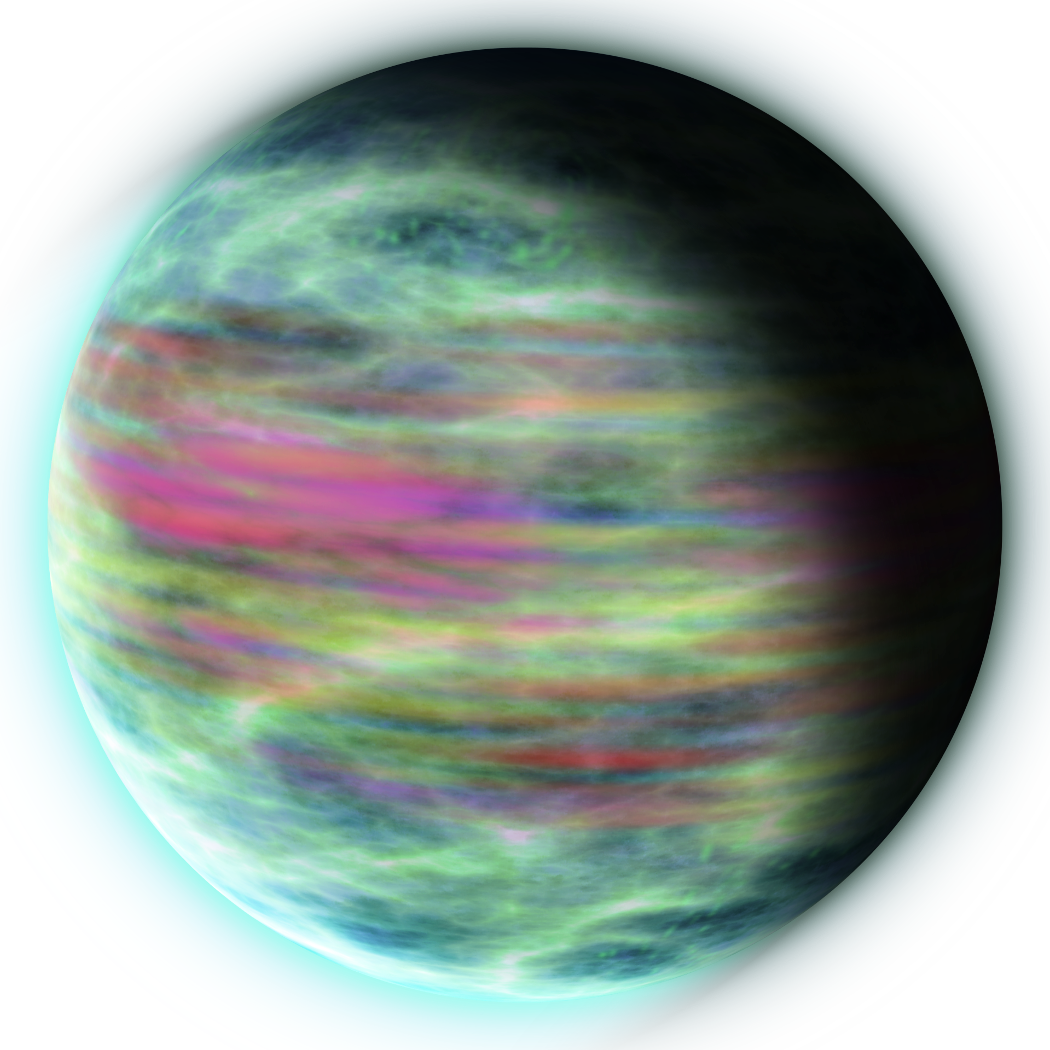
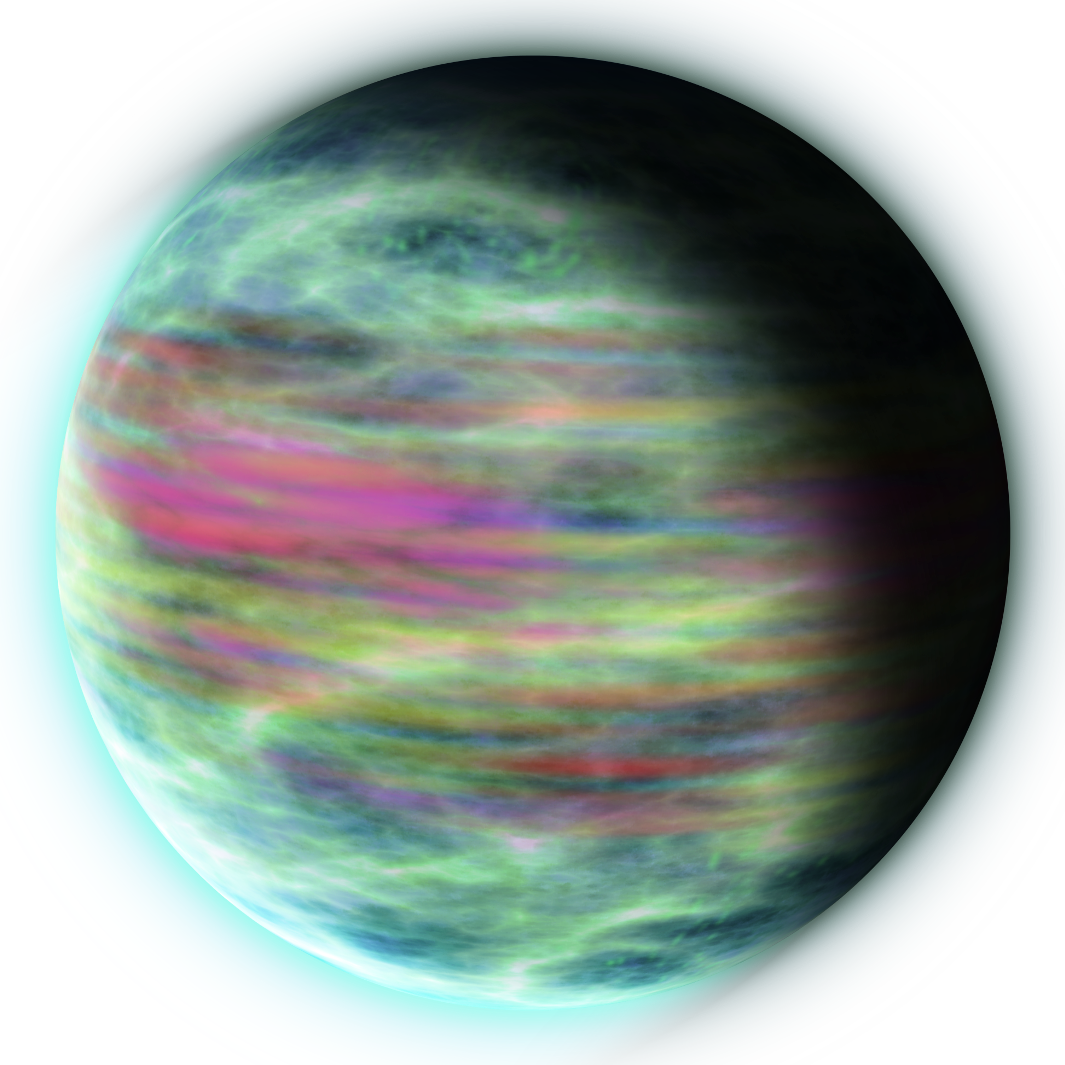
mute button
-fixed image croping on larger planets
-added a mute button
-replaced restart icon

diff --git a/core/src/com/eg/planetjumper/PlanetJumper.java b/core/src/com/eg/planetjumper/PlanetJumper.java
@@ -4,6 +4,7 @@ import java.util.ArrayList;
 
 import com.badlogic.gdx.ApplicationAdapter;
 import com.badlogic.gdx.Gdx;
+import com.badlogic.gdx.Preferences;
 import com.badlogic.gdx.graphics.GL20;
 import com.badlogic.gdx.graphics.OrthographicCamera;
 import com.badlogic.gdx.graphics.Texture;
@@ -21,8 +22,10 @@ import com.badlogic.gdx.physics.box2d.World;
 import com.badlogic.gdx.scenes.scene2d.InputEvent;
 import com.badlogic.gdx.scenes.scene2d.Stage;
 import com.badlogic.gdx.scenes.scene2d.ui.Button;
+import com.badlogic.gdx.scenes.scene2d.ui.ImageButton;
 import com.badlogic.gdx.scenes.scene2d.utils.ClickListener;
 import com.badlogic.gdx.scenes.scene2d.utils.SpriteDrawable;
+
 import box2dLight.RayHandler;
 
 public class PlanetJumper extends ApplicationAdapter {
@@ -30,12 +33,13 @@ public class PlanetJumper extends ApplicationAdapter {
 	public static Joint playerJoint = null;
 	
 	private static World world;
+	private static Preferences prefs;
 	
 	private float cameraZoomMod;
 	private OrthographicCamera camera;
 	private SpriteBatch batch;
 	private LevelLoader level;
-	private Texture resetImage, rocketImage;
+	private Texture resetImage, rocketImage, muteImage, soundImage;
 	private Stage ui;
 	private ArrayList<ImageBody> b;
 	private Player player;
@@ -53,21 +57,30 @@ public class PlanetJumper extends ApplicationAdapter {
 		world.setContactListener(new PlanetContactListener());
 		camera = new OrthographicCamera();
 		camera.setToOrtho(false);
-		cameraZoomMod = 2500f / Gdx.graphics.getWidth();
+		cameraZoomMod = 3000f / Gdx.graphics.getWidth();
 		ui = new Stage();
 		planetImages = new Texture[15];
 		for (int i = 0; i < 15; i++)
-			planetImages[i] = new Texture("planets/planet_" + (i + 34) + ".png");
-		rocketImage = new Texture("player.png");
-		resetImage = new Texture("reset.png");
+			planetImages[i] = new Texture(Gdx.files.internal("planets/planet_" + (i + 34) + ".png"));
+		rocketImage = new Texture(Gdx.files.internal("player.png"));
+		resetImage = new Texture(Gdx.files.internal("reset.png"));
+		muteImage = new Texture(Gdx.files.internal("mute.png"));
+		soundImage = new Texture(Gdx.files.internal("sound.png"));
 		b = new ArrayList<ImageBody>();
 		rayHandler = new RayHandler(lightWorld);
 		level = new LevelLoader(this, planetImages, rayHandler);
+		prefs = Gdx.app.getPreferences("com.eg.planetjumper");
 		
 		//set up the UI
 		Sprite resetButton = new Sprite(resetImage);
+		final Sprite muteButton = new Sprite(muteImage);
+		final Sprite soundButton = new Sprite(soundImage);
 		resetButton.getTexture().setFilter(TextureFilter.Linear, TextureFilter.Linear);
 		resetButton.setSize(Gdx.graphics.getWidth()/15, Gdx.graphics.getWidth()/15);
+		muteButton.getTexture().setFilter(TextureFilter.Linear, TextureFilter.Linear);
+		muteButton.setSize(Gdx.graphics.getWidth()/18, Gdx.graphics.getWidth()/18);
+		soundButton.getTexture().setFilter(TextureFilter.Linear, TextureFilter.Linear);
+		soundButton.setSize(Gdx.graphics.getWidth()/18, Gdx.graphics.getWidth()/18);
 		Button btn = new Button(new SpriteDrawable(resetButton));
 		btn.setPosition(5, Gdx.graphics.getHeight() - (Gdx.graphics.getWidth()/15) - 5);
 		btn.addListener(new ClickListener()
@@ -86,8 +99,20 @@ public class PlanetJumper extends ApplicationAdapter {
                 return true;
             }
 		});
-		
+		final ImageButton btnM = new ImageButton(new SpriteDrawable(soundButton), new SpriteDrawable(muteButton), new SpriteDrawable(muteButton));
+		btnM.setPosition(Gdx.graphics.getWidth() - (Gdx.graphics.getWidth()/18) - 5, Gdx.graphics.getHeight() - (Gdx.graphics.getWidth()/18) - 5);
+		btnM.setChecked(SoundHandler.getIntance().getToggle());
+		btnM.addListener(new ClickListener()
+		{
+			@Override
+            public boolean touchDown (InputEvent event, float x, float y, int pointer, int button)
+            {
+				btnM.setChecked(!SoundHandler.getIntance().toggleSound());
+                return true;
+            }
+		});
 		ui.addActor(btn);
+		ui.addActor(btnM);
 		ui.addActor(ScoreHandler.getInstance().initiate());
 		Gdx.input.setInputProcessor(ui);
 		
@@ -158,6 +183,11 @@ public class PlanetJumper extends ApplicationAdapter {
 		return world;
 	}
 	
+	public static Preferences getPreferences()
+	{
+		return prefs;
+	}
+	
 	@Override
 	public void render () 
 	{
@@ -202,14 +232,18 @@ public class PlanetJumper extends ApplicationAdapter {
 	@Override
 	public void dispose () 
 	{
+		prefs.flush();
 		SoundHandler.getIntance().dispose();
 		rayHandler.dispose();
 		ui.dispose();
 		world.dispose();
+		lightWorld.dispose();
 		batch.dispose();
 		for (int i = 0; i < planetImages.length; i++)
 			planetImages[i].dispose();
 		rocketImage.dispose();
 		resetImage.dispose();
+		muteImage.dispose();
+		soundImage.dispose();
 	}
 }

diff --git a/core/src/com/eg/planetjumper/SoundHandler.java b/core/src/com/eg/planetjumper/SoundHandler.java
@@ -1,5 +1,6 @@
 package com.eg.planetjumper;
 
+import com.badlogic.gdx.Application;
 import com.badlogic.gdx.Gdx;
 import com.badlogic.gdx.audio.Sound;
 
@@ -8,12 +9,15 @@ public class SoundHandler
 	private static final SoundHandler instance = new SoundHandler();
 	
 	private Sound failSound, jumpSound, landSound;
+	private boolean muted;
 	
 	private SoundHandler()
 	{
 		failSound = Gdx.audio.newSound(Gdx.files.internal("sfx/fall.wav"));
 		jumpSound = Gdx.audio.newSound(Gdx.files.internal("sfx/jump.wav"));
 		landSound = Gdx.audio.newSound(Gdx.files.internal("sfx/landing.wav"));
+		
+		muted = PlanetJumper.getPreferences().getBoolean("planetjumper.muted", false);
 	}
 	
 	public static SoundHandler getIntance()
@@ -23,17 +27,20 @@ public class SoundHandler
 
 	public void playLand()
 	{
-		landSound.play();
+		if (!muted)
+			landSound.play();
 	}
 	
 	public void playFall()
 	{
-		failSound.play();
+		if (!muted)
+			failSound.play();
 	}
 	
 	public void playJump()
 	{
-		jumpSound.play();
+		if (!muted)
+			jumpSound.play();
 	}
 	
 	public void dispose()
@@ -41,5 +48,17 @@ public class SoundHandler
 		failSound.dispose();
 		jumpSound.dispose();
 		landSound.dispose();
+	}
+	
+	public boolean toggleSound()
+	{
+		muted = !muted;
+		PlanetJumper.getPreferences().putBoolean("planetjumper.muted", muted);
+		return muted;
+	}
+
+	public boolean getToggle() 
+	{
+		return muted;
 	}
 }

diff --git a/core/src/com/eg/planetjumper/ScoreHandler.java b/core/src/com/eg/planetjumper/ScoreHandler.java
@@ -37,7 +37,7 @@ public class ScoreHandler
 		style.font = font;
 		style.fontColor = Color.YELLOW;
 		scoreLabel = new Label("0", style);
-		scoreLabel.setPosition(Gdx.graphics.getWidth() - scoreLabel.getWidth() - 5, Gdx.graphics.getHeight() - scoreLabel.getHeight());
+		scoreLabel.setPosition(Gdx.graphics.getWidth() - scoreLabel.getWidth() - (Gdx.graphics.getWidth()/15) - 10, Gdx.graphics.getHeight() - scoreLabel.getHeight());
 		scoreLabel.setAlignment(Align.topRight);
 		
 		return scoreLabel;

diff --git a/core/src/com/eg/planetjumper/Player.java b/core/src/com/eg/planetjumper/Player.java
@@ -25,8 +25,7 @@ public class Player extends ImageBody
 			PlanetJumper.getWorld().destroyJoint(PlanetJumper.playerJoint);
 			PlanetJumper.playerJoint = null;
 			SoundHandler.getIntance().playJump();
-			//add a little bit of force to our block just for fun
-			getBody().applyForceToCenter(1, 1, true);
+
 			//set filter to prevent us from getting stuck
 			Filter filter = getBody().getFixtureList().get(0).getFilterData();
 			filter.categoryBits = 0x0004;

diff --git a/core/src/com/eg/planetjumper/LevelLoader.java b/core/src/com/eg/planetjumper/LevelLoader.java
@@ -17,7 +17,7 @@ import com.badlogic.gdx.physics.box2d.BodyDef.BodyType;
 
 public class LevelLoader
 {
-	private static final int PLANET_SPACING = 1400;
+	private static final int PLANET_SPACING = 1600;
 	private static final int STARTING_PLANETS = 3;
 	
 	private PlanetJumper planet;
